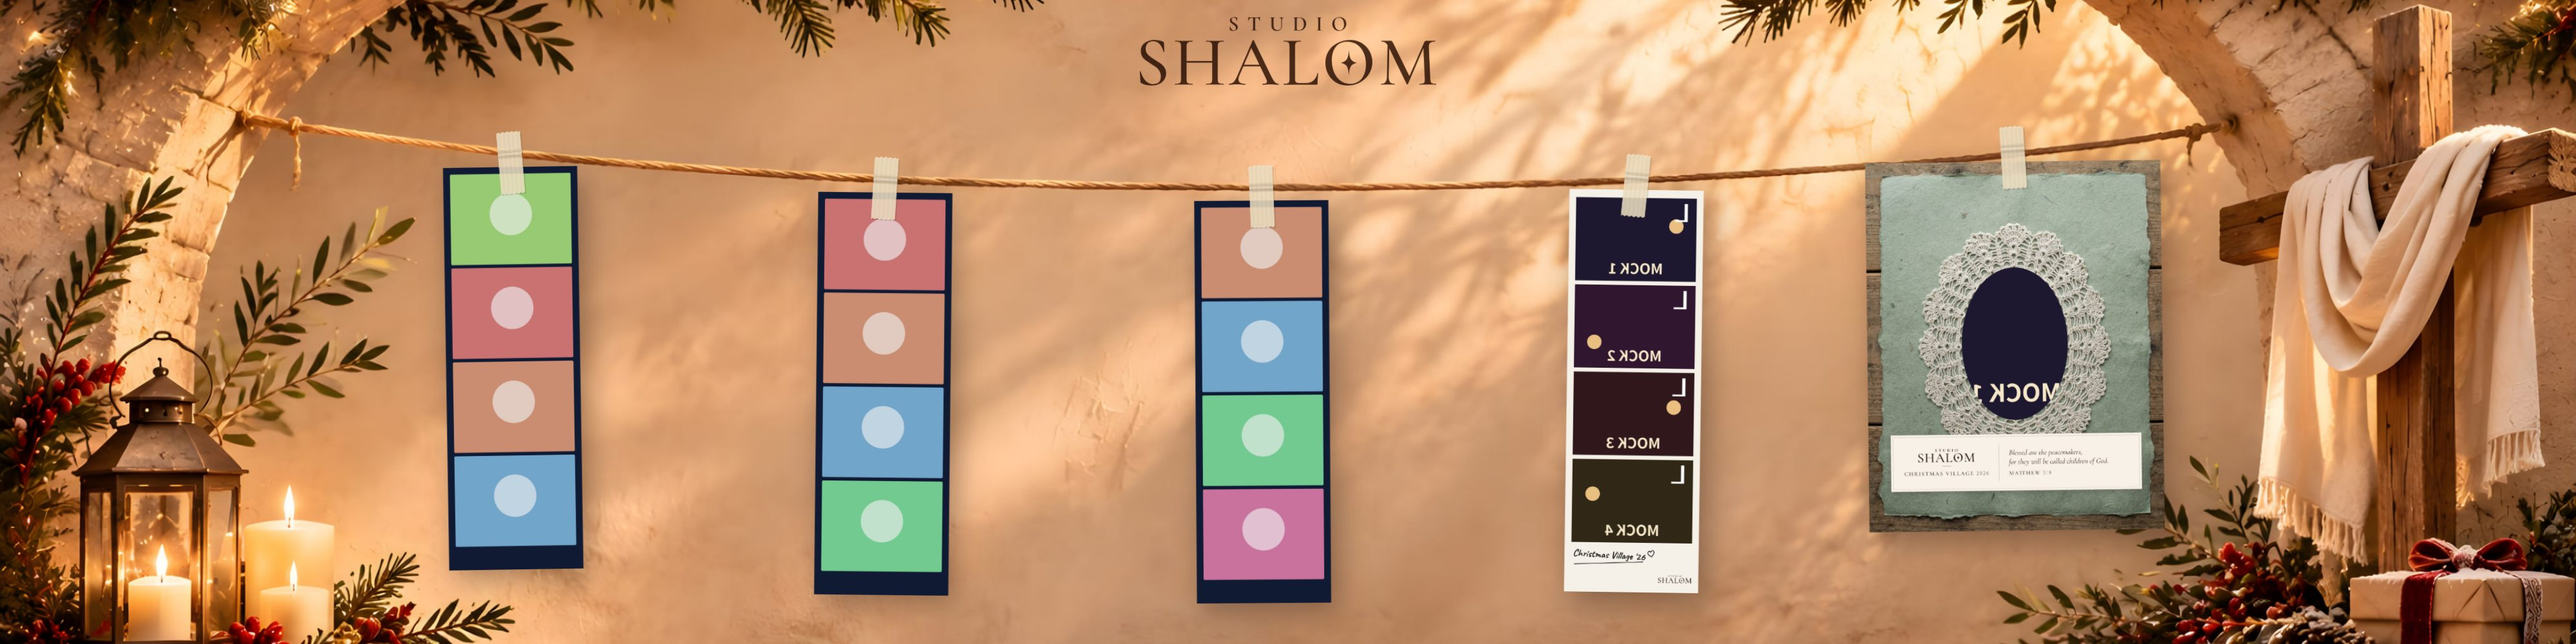
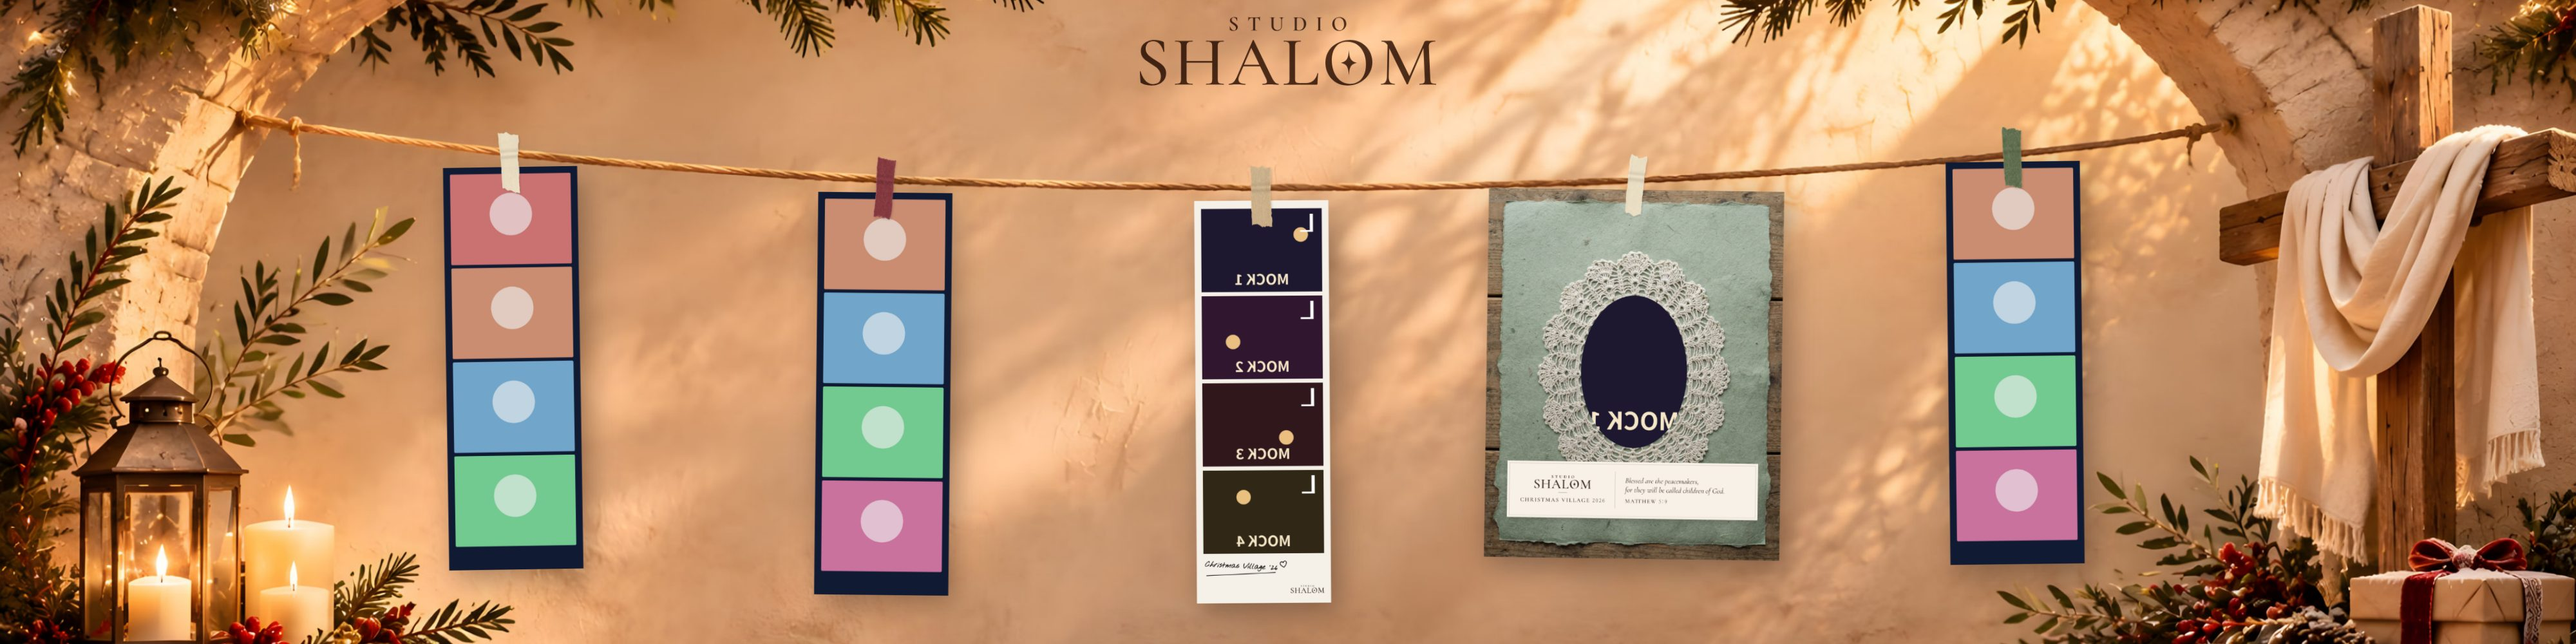
Media wall: the user's own paper tapes, a colour per slot (D113)
Six transparent paper masking tapes (cream x2, kraft x2, pine, berry), stood
upright into the clip's 44x96 box at 3x with the shadow and fold baked in,
replace the drawn tape-washi.svg. WallClip.images cycles them per slot;
size and lineY are unchanged, so no photo moves.

Claude-Session: https://claude.ai/code/session_01NhCrP683anWVTxFxXyAyqt

diff --git a/config/wall-themes.ts b/config/wall-themes.ts
@@ -29,15 +29,26 @@ import {
  */
 const CANVAS = { width: 3840, height: 1080 } as const;
 /**
- * A strip of cream masking tape folded over the line and pressed onto the photo's top (user's
- * choice, 2026-11-24, replacing the wooden clothespin: the same paper tape as the booth's journal,
- * D104). Drawn 44 × 96: the line crosses it 34 px below its top, and it reaches 62 px under the
- * line, over the strip's top edge (strips hang `drop` 12–20 px below the line). Turned a little on
- * each slot so the tapes do not look stamped.
+ * A strip of masking tape folded over the line and pressed onto the photo's top (user's choice,
+ * 2026-11-24, replacing the wooden clothespin; same idea as the booth's journal tape, D104). The
+ * pictures are the user's own generated paper tapes (Figma SS 03E `Wall/Tape · 마스킹테이프 6종`),
+ * stood upright, trimmed and set in one 44 × 96 box (PNG at 3×, transparent, a faint shadow to
+ * +x +y and the fold where it wraps the line baked in). The line crosses every one 34 px below its
+ * top, and it reaches 62 px under the line, over the strip's top edge (strips hang `drop` 12–20 px
+ * below the line). Each slot gets the next colour and a small turn, so the tapes do not look
+ * stamped.
  */
 const TAPE: WallClip = {
   kind: "clip",
-  image: "/wall/tape-washi.svg",
+  image: "/wall/tapes/tape-cream.png",
+  images: [
+    "/wall/tapes/tape-cream.png",
+    "/wall/tapes/tape-berry.png",
+    "/wall/tapes/tape-kraft.png",
+    "/wall/tapes/tape-cream-2.png",
+    "/wall/tapes/tape-pine.png",
+    "/wall/tapes/tape-kraft-2.png",
+  ],
   width: 44,
   height: 96,
   centerX: 22,

diff --git a/components/wall/wall-scene.tsx b/components/wall/wall-scene.tsx
@@ -5,7 +5,7 @@ import { getWallTheme } from "@/config/wall-themes";
 import { ropePath, type SceneLayout } from "@/lib/wall/layout";
 import { WALL_FIT } from "@/lib/wall/fit";
 import type { Rect } from "@/lib/wall/layout";
-import { WALL_LIGHT, fitTheme, type WallTheme } from "@/lib/wall/themes";
+import { WALL_LIGHT, clipImage, fitTheme, type WallTheme } from "@/lib/wall/themes";
 
 /**
  * One wall theme (D85): its bundled background picture, the twine if the picture has none, the
@@ -178,7 +178,8 @@ export function featherMask(feather: { x: boolean; y: boolean } | null | undefin
  * What holds a photo: the theme's clip picture (a strip of masking tape folded over the line),
  * drawn in the photo's box, whose top is the line at the hang point. Placed by its own numbers
  * (`WallClip`): the line crosses it `lineY` px below its top. A clip with `tilts` is turned a little
- * differently on each slot, about where it crosses the line, so the tapes do not look stamped.
+ * differently on each slot, about where it crosses the line, and a clip with `images` gets a
+ * different picture on each slot, so the tapes do not look stamped.
  * Nothing for a theme whose pegs are already in the picture.
  */
 export function Clip({ theme, slot = 0 }: { theme: WallTheme; slot?: number }) {
@@ -188,7 +189,7 @@ export function Clip({ theme, slot = 0 }: { theme: WallTheme; slot?: number }) {
   return (
     // eslint-disable-next-line @next/next/no-img-element -- static, same-origin, works offline
     <img
-      src={hang.image}
+      src={clipImage(hang, slot)}
       alt=""
       aria-hidden
       draggable={false}

diff --git a/lib/wall/themes.ts b/lib/wall/themes.ts
@@ -198,13 +198,22 @@ export function fitTheme(theme: WallTheme, aspect: number | null | undefined): W
  */
 export interface WallClip {
   kind: "clip";
+  /** The clip picture. With `images`, the picture for a slot that `images` does not cover. */
   image: string;
+  /** Pictures given to the slots in turn (slot i gets `images[i % length]`), all drawn at the same
+   * size and with the line at the same `lineY`, so swapping one never moves a photo. */
+  images?: readonly string[];
   width: number;
   height: number;
   centerX: number;
   lineY: number;
   /** Small turns (degrees) given to the clip slot by slot, in turn; none = always upright. */
   tilts?: readonly number[];
+}
+
+/** The clip picture for a slot: `images` in turn, else `image`. */
+export function clipImage(hang: WallClip, slot: number): string {
+  return hang.images?.length ? hang.images[slot % hang.images.length]! : hang.image;
 }
 
 /** How far a clip reaches above the line (scene px); 0 for a picture with its own pegs. */

diff --git a/tests/unit/wall-themes.test.ts b/tests/unit/wall-themes.test.ts
@@ -70,7 +70,17 @@ describe.each(LOOKS)("wall theme %s", (_id, theme, isCut) => {
     }
     const preview = await sharp(file(theme.preview)).metadata();
     expect([preview.width, preview.height]).toEqual([640, 180]);
-    if (theme.hang.kind === "clip") expect(existsSync(file(theme.hang.image))).toBe(true);
+    if (theme.hang.kind === "clip") {
+      for (const src of [theme.hang.image, ...(theme.hang.images ?? [])]) {
+        expect(existsSync(file(src)), src).toBe(true);
+        // Every picture of one clip has the clip's own shape, so a swap never moves a photo.
+        if (src.endsWith(".png")) {
+          const m = await sharp(file(src)).metadata();
+          expect(m.hasAlpha, src).toBe(true);
+          expect(m.width! / m.height!).toBeCloseTo(theme.hang.width / theme.hang.height, 2);
+        }
+      }
+    }
     expect(theme.fallbackColor).toMatch(/^#[0-9A-Fa-f]{6}$/);
     expect(theme.name.length).toBeGreaterThan(3);
   });

diff --git a/docs/DECISIONS.md b/docs/DECISIONS.md
@@ -1810,3 +1810,18 @@ User request: the wall looked broken up (화질이 깨짐), the clothespins look
 
 Not verified: a real 4K TV, the church board and the LED; how a low-power wall PC copes with a
 7680 × 2160 picture (low-spec mode never loads it).
+
+## D113 · Media wall tape: the user's own paper tapes, a colour per slot (2026-11-24)
+
+The user generated six paper masking tapes (cream ×2, kraft ×2, pine green, berry red; transparent
+PNG) and asked for them in place of the drawn tape of D112, first in Figma, then in code.
+
+- **Figma.** SS 03E holds the six (`Wall/Tape · 마스킹테이프 6종`) and a preview of S01 with the
+  photo slots shown, the clothespin parts hidden and a tape on every photo
+  (`미리보기 · S01 · 집게 → 마스킹테이프`).
+- **Code.** Each tape is stood upright, trimmed and set in the clip's own 44 × 96 box
+  (`public/wall/tapes/*.png`, 132 × 288 so it stays sharp on the 2× scene), with the faint shadow
+  to +x +y (D101) and the fold over the line baked in, as the SVG had them. `WallClip.images` gives
+  the slots the colours in turn (`clipImage`); every picture keeps the same size and `lineY`, so
+  no photo moves and `planWallFit` is unchanged. `tape-washi.svg` is gone; the two themes with
+  pegs painted in the picture keep them.

diff --git a/docs/STATUS.md b/docs/STATUS.md
@@ -4,6 +4,16 @@
 이전 기록 `docs/STATUS_2026-10-12.md`는 PR #7(미디어월) 병합 전 내용이라 "Phase 4 미착수"로 적혀
 있다. 역사 기록으로만 본다.
 
+## 미디어월 테이프 그림 교체 (2026-11-24, D113)
+
+사용자 요청: 직접 만든 마스킹테이프 이미지 6색으로 집게 자리를 바꾸기, Figma 먼저.
+
+| 항목                                                                                      | 상태                             |
+| ----------------------------------------------------------------------------------------- | -------------------------------- |
+| Figma SS 03E에 테이프 6종 + S01 미리보기                                                  | 구현됨. Figma 스크린샷으로 확인  |
+| `public/wall/tapes/*.png` 6색, 슬롯마다 다른 색(`WallClip.images`), 크기·줄 위치는 그대로 | 구현됨. 검증 결과는 아래 PR 본문 |
+| 실제 TV·LED에서 보기                                                                      | **미검증**                       |
+
 ## 미디어월 화질 · 마스킹테이프 · 로고 (2026-11-24, D112)
 
 사용자 요청: 화질 깨짐, 빨래집게가 사알짝 별로, STUDIO SHALOM을 우리 로고로·상단 가운데.
